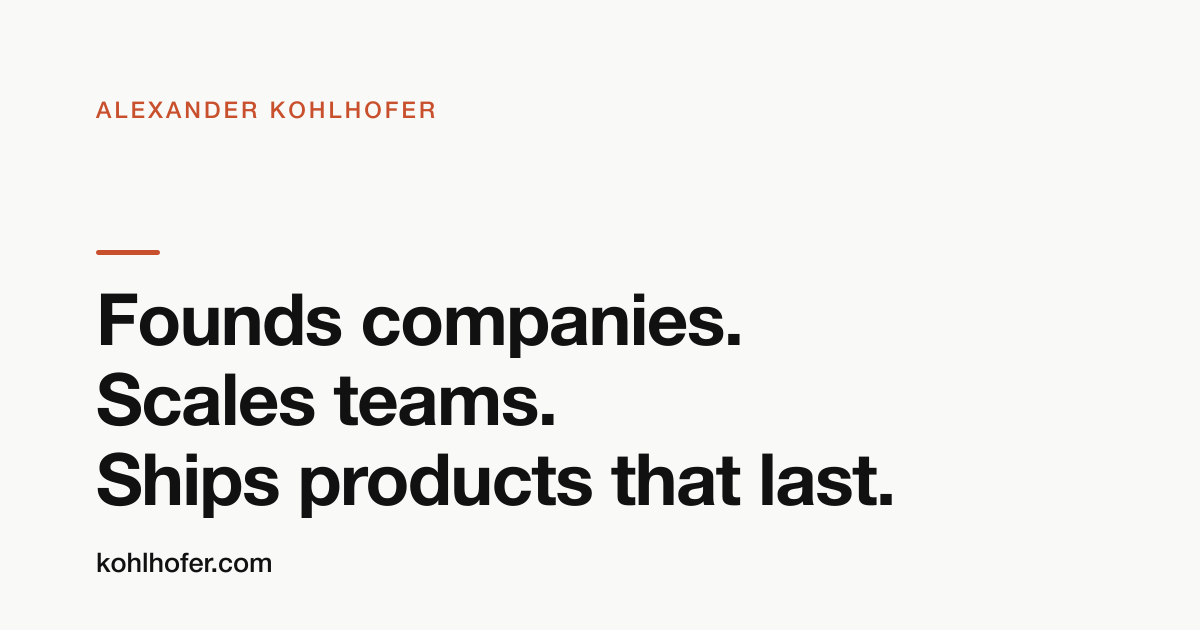
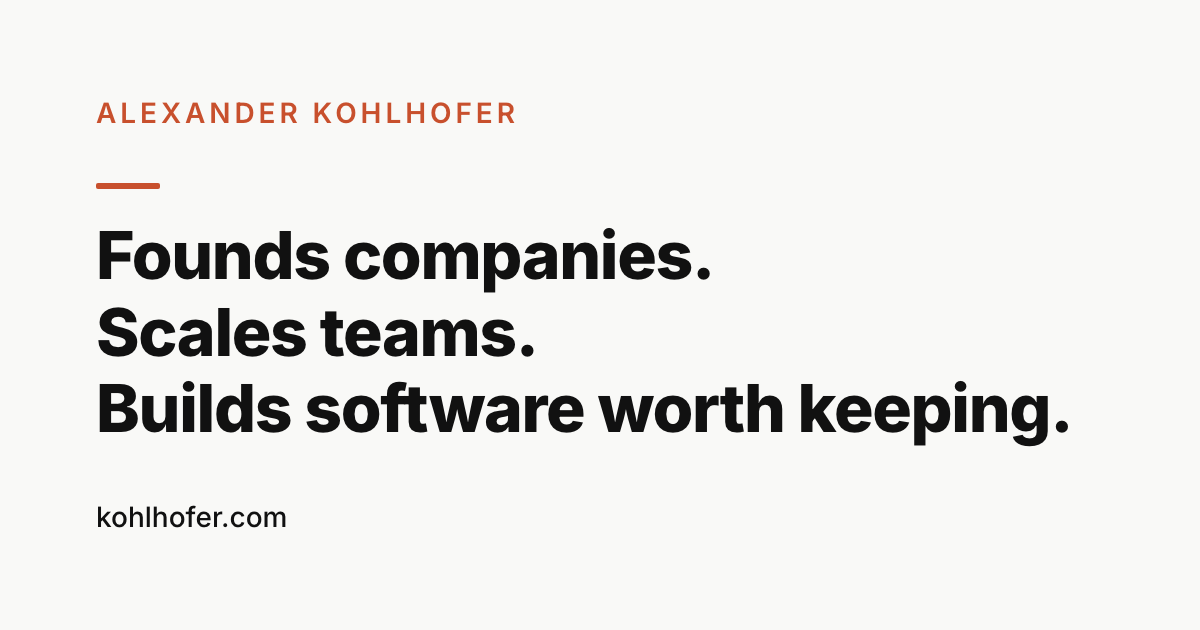
feat: regenerate social card to match new positioning
- New images/og.png: third line now reads "Builds software worth
  keeping." to match the headline (was "Ships products that last").
- Add the card source (src/og.html) and scripts/og-render.sh so the
  card is reproducible — the template was previously untracked.
- Update og:image:alt on all pages to match the new card.
- README: document the og template/render script, the inlined-theme
  CSP-hash workflow, and the trailing-slash canonical convention.

diff --git a/src/og.html b/src/og.html
@@ -1,0 +1,63 @@
+<!doctype html>
+<html lang="en">
+<head>
+  <meta charset="utf-8">
+  <!-- Social card source for images/og.png (1200x630).
+       Regenerate with scripts/og-render.sh after editing this file. -->
+  <style>
+    @font-face {
+      font-family: 'Inter';
+      font-style: normal;
+      font-weight: 100 900;
+      font-display: block;
+      src: url('/fonts/inter-variable.woff2') format('woff2');
+    }
+    * { margin: 0; padding: 0; box-sizing: border-box; }
+    html, body { width: 1200px; height: 630px; }
+    body {
+      background: #f9f9f7;
+      color: #111111;
+      font-family: 'Inter', sans-serif;
+      -webkit-font-smoothing: antialiased;
+      padding: 96px;
+      display: flex;
+      flex-direction: column;
+      justify-content: space-between;
+    }
+    .name {
+      font-size: 28px;
+      font-weight: 600;
+      letter-spacing: 0.14em;
+      text-transform: uppercase;
+      color: #c8502d;
+    }
+    .rule {
+      width: 64px;
+      height: 6px;
+      background: #c8502d;
+      margin: 0 0 28px;
+      border-radius: 2px;
+    }
+    .statement {
+      font-size: 66px;
+      font-weight: 800;
+      letter-spacing: -0.02em;
+      line-height: 1.16;
+    }
+    .domain {
+      font-size: 28px;
+      font-weight: 500;
+      color: #111111;
+    }
+    .mid { margin-top: auto; margin-bottom: auto; }
+  </style>
+</head>
+<body>
+  <p class="name">Alexander Kohlhofer</p>
+  <div class="mid">
+    <div class="rule"></div>
+    <h1 class="statement">Founds companies.<br>Scales teams.<br>Builds software worth keeping.</h1>
+  </div>
+  <p class="domain">kohlhofer.com</p>
+</body>
+</html>

diff --git a/building/index.html b/building/index.html
@@ -21,7 +21,7 @@
   <meta property="og:image" content="https://kohlhofer.com/images/og.png">
   <meta property="og:image:width" content="1200">
   <meta property="og:image:height" content="630">
-  <meta property="og:image:alt" content="Alexander Kohlhofer — founds companies, scales teams, ships products that last.">
+  <meta property="og:image:alt" content="Alexander Kohlhofer — founds companies, scales teams, builds software worth keeping.">
 
   <meta name="twitter:card" content="summary_large_image">
   <meta name="twitter:title" content="How I build — Alexander Kohlhofer">

diff --git a/leading/index.html b/leading/index.html
@@ -21,7 +21,7 @@
   <meta property="og:image" content="https://kohlhofer.com/images/og.png">
   <meta property="og:image:width" content="1200">
   <meta property="og:image:height" content="630">
-  <meta property="og:image:alt" content="Alexander Kohlhofer — founds companies, scales teams, ships products that last.">
+  <meta property="og:image:alt" content="Alexander Kohlhofer — founds companies, scales teams, builds software worth keeping.">
 
   <meta name="twitter:card" content="summary_large_image">
   <meta name="twitter:title" content="How I lead — Alexander Kohlhofer">

diff --git a/index.html b/index.html
@@ -21,7 +21,7 @@
   <meta property="og:image" content="https://kohlhofer.com/images/og.png">
   <meta property="og:image:width" content="1200">
   <meta property="og:image:height" content="630">
-  <meta property="og:image:alt" content="Alexander Kohlhofer — founds companies, scales teams, ships products that last.">
+  <meta property="og:image:alt" content="Alexander Kohlhofer — founds companies, scales teams, builds software worth keeping.">
 
   <meta name="twitter:card" content="summary_large_image">
   <meta name="twitter:title" content="Alexander Kohlhofer">

diff --git a/README.md b/README.md
@@ -5,10 +5,11 @@ Static site for [kohlhofer.com](https://kohlhofer.com). Hand-authored HTML, no b
 ## Structure
 
 - `index.html` — the splash: positioning statement, proof ladder, essays, doorways, contact.
-- `building/index.html` — `/building`, the first cornerstone essay. Evergreen positioning pieces live as hand-authored pages and link out to the deeper writing on notsocommonthoughts.com and the work on fieldbw.com.
-- `images/og.png` — 1200×630 social card (rendered from an HTML template via headless Chrome).
-- `sitemap.xml` / `robots.txt` — keep these in sync when adding pages.
-- `js/theme.js`, `js/analytics.js` — shared, same-origin so the strict CSP stays `script-src 'self'`.
+- `building/index.html`, `leading/index.html` — `/building/` and `/leading/`, the cornerstone essays. Evergreen positioning pieces live as hand-authored pages and link out to the deeper writing on notsocommonthoughts.com and the work on fieldbw.com.
+- `images/og.png` — 1200×630 social card. Source is `src/og.html`; regenerate with `scripts/og-render.sh` after editing it.
+- `sitemap.xml` / `robots.txt` — keep these in sync when adding pages. Canonicals use trailing slashes (`/building/`).
+- `js/theme.js` — readable source for the theme toggle. It is inlined (minified) into each page's `<head>` and allowed via a CSP `sha256` hash; regenerate the hash with `scripts/theme-hash.sh` if you change it.
+- `js/analytics.js` — GA4 init, same-origin and `defer`red.
 
 ## License
 
